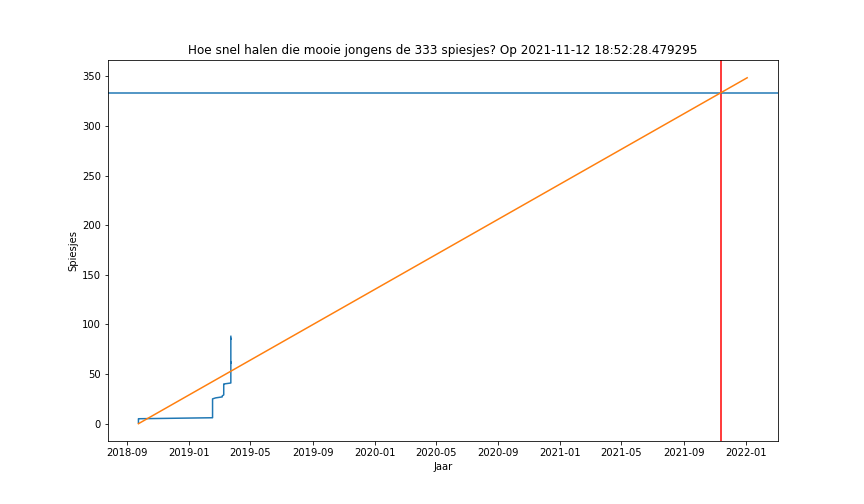
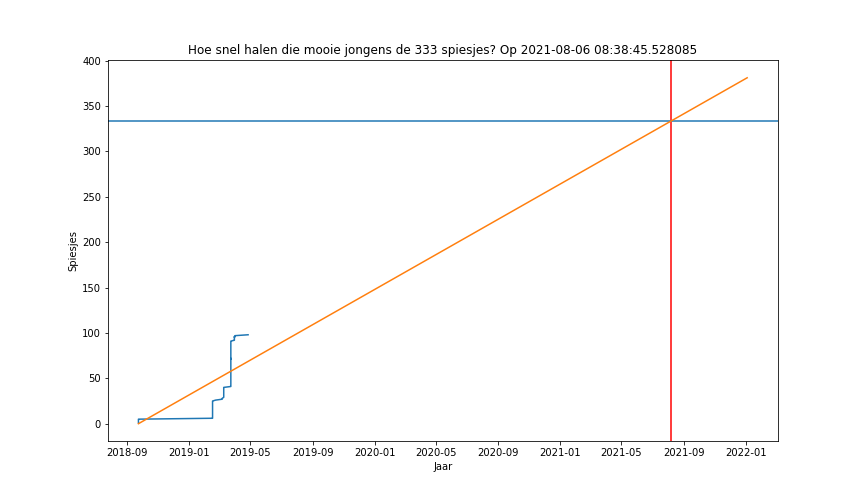
update

diff --git a/spiesjes.py b/spiesjes.py
@@ -1,0 +1,108 @@
+#!/usr/bin/env python
+# coding: utf-8
+
+# In[1]:
+
+
+# load libraries
+import numpy as np
+import matplotlib.pyplot as plt
+import datetime
+from scipy.stats import linregress
+
+
+# In[2]:
+
+
+# load data
+data = np.genfromtxt('data.txt', dtype ='str')
+
+
+# In[3]:
+
+
+change = data[:,5].astype(int)
+
+
+# In[4]:
+
+
+dates = data[:,1].astype(int)
+months = data[:,2]
+years = data[:,3].astype(int)
+
+
+# In[5]:
+
+
+dts = []
+
+# load string data to datetime objects
+for i in range(len(change)):
+    date = datetime.datetime.strptime(str(dates[i])+' '+str(months[i])+' '+str(years[i]), '%d %B %Y')
+    dts.append(date)
+
+# make cumulative data
+cum = np.zeros(len(change))
+for i in range(len(change)):
+    cum[i] = cum[i-1]+change[i]
+
+# change direction: from old to new
+dts = dts[::-1]
+plt.plot(dts,cum)
+
+base = dts[0]
+
+dts2 = [(dts[i]-base).days for i in range(len(dts))]
+
+dts2 = np.transpose(dts2)[:, np.newaxis]
+a, _, _, _ = np.linalg.lstsq(dts2, cum)
+
+
+# In[6]:
+
+
+# number of prediction x-values
+n = 1200
+xarray = np.linspace(0,n,n)
+
+target = 333
+
+# note: this method is really stupid because it calculates 1200 points whereas it could have done with 2. But whatever.
+datesarr = np.array([base+datetime.timedelta(days=i) for i in range(n)])
+
+# Calculate intersection with 333 spiesjes
+final = (target)/a[0]
+finaltime = datetime.timedelta(final)
+finaldate = base+finaltime
+
+# Plot
+plt.figure(figsize=(12,7))
+plt.axvline(x=finaldate, color='r')
+plt.axhline(y=target)
+plt.plot(dts,cum)
+plt.plot(datesarr, a*xarray)
+plt.xlabel('Jaar')
+plt.ylabel('Spiesjes')
+plt.title('Hoe snel halen die mooie jongens de 333 spiesjes? Op {}'.format(finaldate))
+plt.savefig('Spiesjes.png')
+
+
+
+# In[ ]:
+
+
+
+
+
+# In[ ]:
+
+
+
+
+
+# In[ ]:
+
+
+
+
